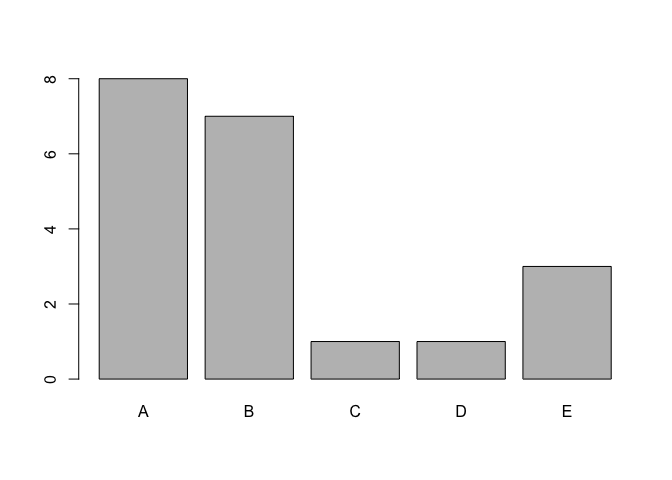
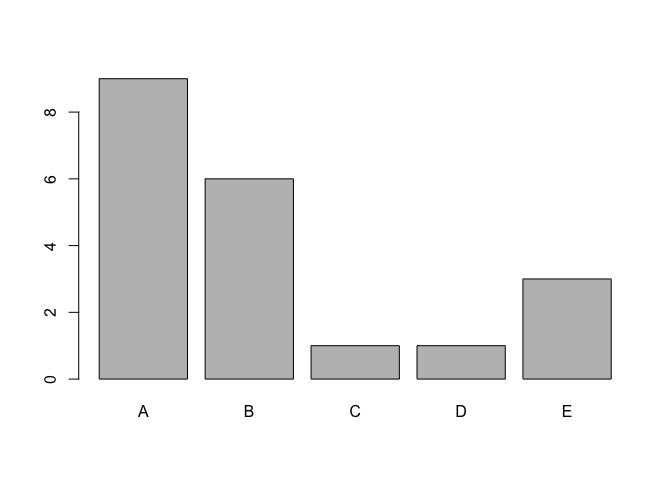
Second commit

diff --git a/index.html b/index.html
@@ -178,7 +178,7 @@ testPC &lt;- predict(preProc,test_data[,-53])                  # Calculate first
 pred_eval &lt;- predict(mod,evalPC)
 
 cm &lt;- confusionMatrix(eval$classe,pred_eval)</code></pre>
-<p>The confusion matrix shows us that the accuracy is 94.6%, which is definitely acceptable, so we will use this model for the test data.</p>
+<p>The confusion matrix shows us that the accuracy is 93.7%, which is definitely acceptable, so we will use this model for the test data. The out of sample error of the model is 6.3%, which is very small.</p>
 </div>
 <div id="results" class="section level3">
 <h3>Results</h3>
@@ -186,7 +186,7 @@ cm &lt;- confusionMatrix(eval$classe,pred_eval)</code></pre>
 <pre class="r"><code>pred_test &lt;- predict(mod,testPC)
 print(pred_test)</code></pre>
 <pre><code>##  1  2  3  4  5  6  7  8  9 10 11 12 13 14 15 16 17 18 19 20 
-##  B  A  B  A  A  E  D  B  A  A  A  C  B  A  E  E  A  B  B  B 
+##  B  A  A  A  A  E  D  B  A  A  B  C  B  A  E  E  A  B  B  B 
 ## Levels: A B C D E</code></pre>
 <pre class="r"><code>barplot(table(pred_test))</code></pre>
[1 lines of base64/hex data omitted]
@@ -194,7 +194,7 @@ print(pred_test)</code></pre>
 </div>
 <div id="conclusions" class="section level3">
 <h3>Conclusions</h3>
-<p>This report went through a machine learning exercise to predict the category different barbell lifting methods fell into. The random forest model was fitted with high accuracy, which makes us confident that the predictions for the test period are robust. The distribution of the exercise categories is similar to that of the training period, which is also reassuring. Although a random forest was fitted here, it is possible that other types of models can predict the results with a higher accuracy.</p>
+<p>This report went through a machine learning exercise to predict the category different barbell lifting methods fell into. The random forest model was fitted with high accuracy and low out of sample error, which makes us confident that the predictions for the test period are robust. The distribution of the exercise categories is similar to that of the training period, which is also reassuring. Although a random forest was fitted here, it is possible that other types of models can predict the results with a higher accuracy.</p>
 </div>
 
 

diff --git a/project.md b/project.md
@@ -105,7 +105,8 @@ confusion matrix.
     cm <- confusionMatrix(eval$classe,pred_eval)
 
 The confusion matrix shows us that the accuracy is 93.7%, which is
-definitely acceptable, so we will use this model for the test data.
+definitely acceptable, so we will use this model for the test data. The
+out of sample error of the model is 6.3%, which is very small.
 
 ### Results
 
@@ -116,7 +117,7 @@ data. Plot 2 shows us the resulting partition of the classes.
     print(pred_test)
 
     ##  1  2  3  4  5  6  7  8  9 10 11 12 13 14 15 16 17 18 19 20 
-    ##  B  A  B  A  A  E  D  B  A  A  A  C  B  A  E  E  A  B  B  B 
+    ##  B  A  B  A  A  E  D  A  A  A  A  C  B  A  E  E  A  B  B  B 
     ## Levels: A B C D E
 
     barplot(table(pred_test))
@@ -131,9 +132,9 @@ category having the highest counts.
 
 This report went through a machine learning exercise to predict the
 category different barbell lifting methods fell into. The random forest
-model was fitted with high accuracy, which makes us confident that the
-predictions for the test period are robust. The distribution of the
-exercise categories is similar to that of the training period, which is
-also reassuring. Although a random forest was fitted here, it is
-possible that other types of models can predict the results with a
-higher accuracy.
+model was fitted with high accuracy and low out of sample error, which
+makes us confident that the predictions for the test period are robust.
+The distribution of the exercise categories is similar to that of the
+training period, which is also reassuring. Although a random forest was
+fitted here, it is possible that other types of models can predict the
+results with a higher accuracy.
